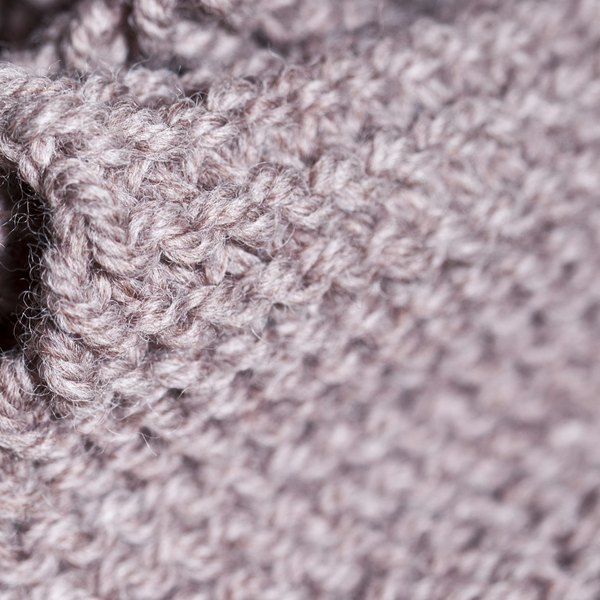
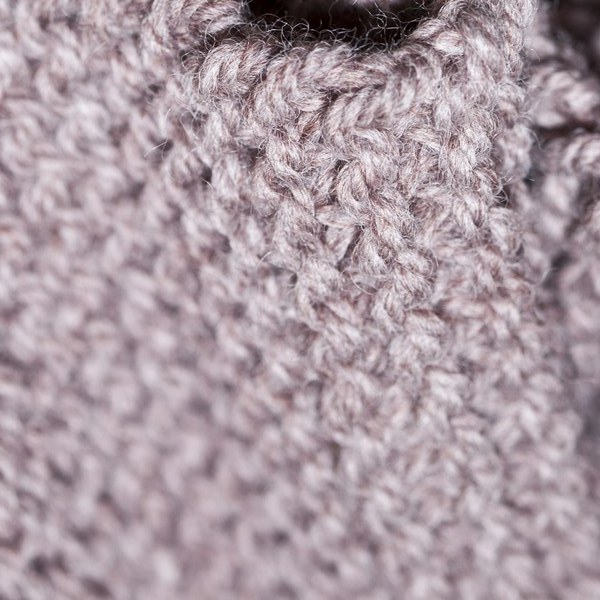
실 도감 pictures (Kim): 날개사 - a fluffy pink sweater sleeve, close; nylon turned 90° right

diff --git a/docs/credits/yarn-photos.md b/docs/credits/yarn-photos.md
@@ -15,8 +15,8 @@
 | boucle.jpg | 부클레 | https://unsplash.com/photos/0EpEN-1bU_8 |
 | silk.jpg | 실크 | https://unsplash.com/photos/AIcA7gb8c2A (실 콘 표면만 크게 확대해 자름) |
 | cashmere.jpg | 캐시미어 | https://unsplash.com/photos/brOaC3sxzhI |
-| nylon.jpg | 나일론 | https://unsplash.com/photos/q2rwcbQEUQ4 (편물 부분만 확대해 자름) |
+| nylon.jpg | 나일론 | https://unsplash.com/photos/q2rwcbQEUQ4 (편물 부분만 확대해 자르고 오른쪽으로 90° 돌림) |
 | polyester.jpg | 폴리에스터 | https://unsplash.com/photos/yJrhChncOgQ |
-| nalgae.jpg | 날개사 | https://unsplash.com/photos/Qxfi3763uos |
+| nalgae.jpg | 날개사 | https://unsplash.com/photos/CX01iryZXU8 (스웨터 소매 부분만 확대해 자름) |
 
 사진은 그 실과 질감이 비슷한 편물을 가까이 찍은 것이에요. 사진 설명에 실의 소재가 적혀 있지 않아서, 실제로 그 소재로 뜬 편물이라는 보장은 없어요.
